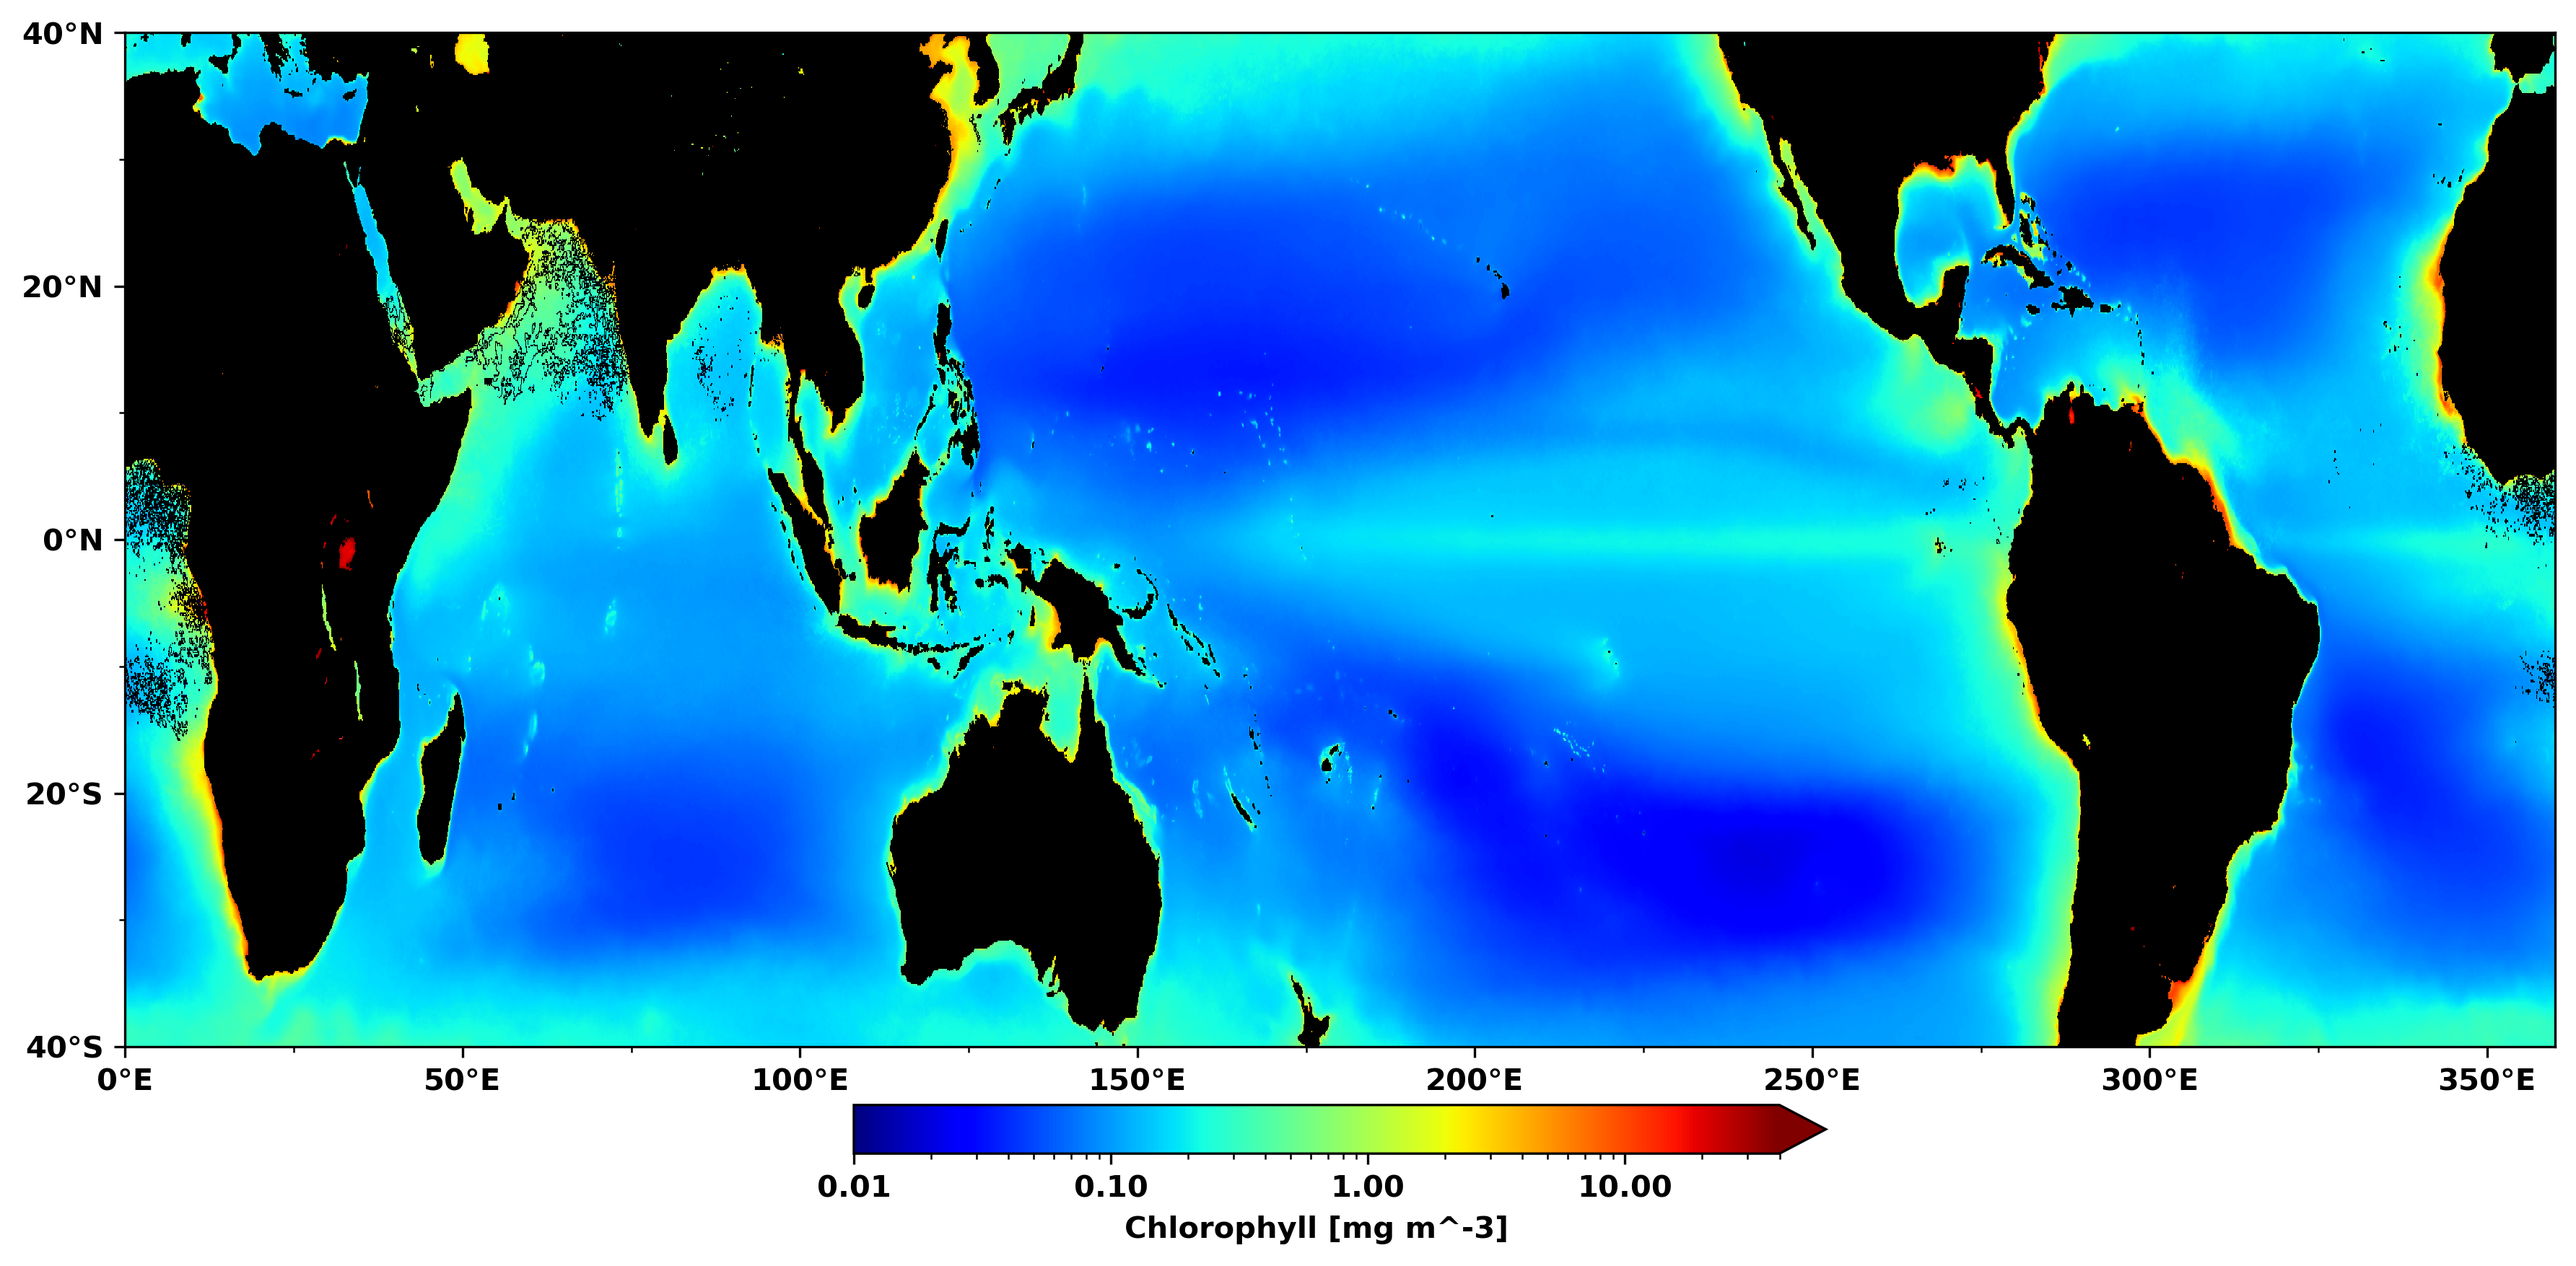
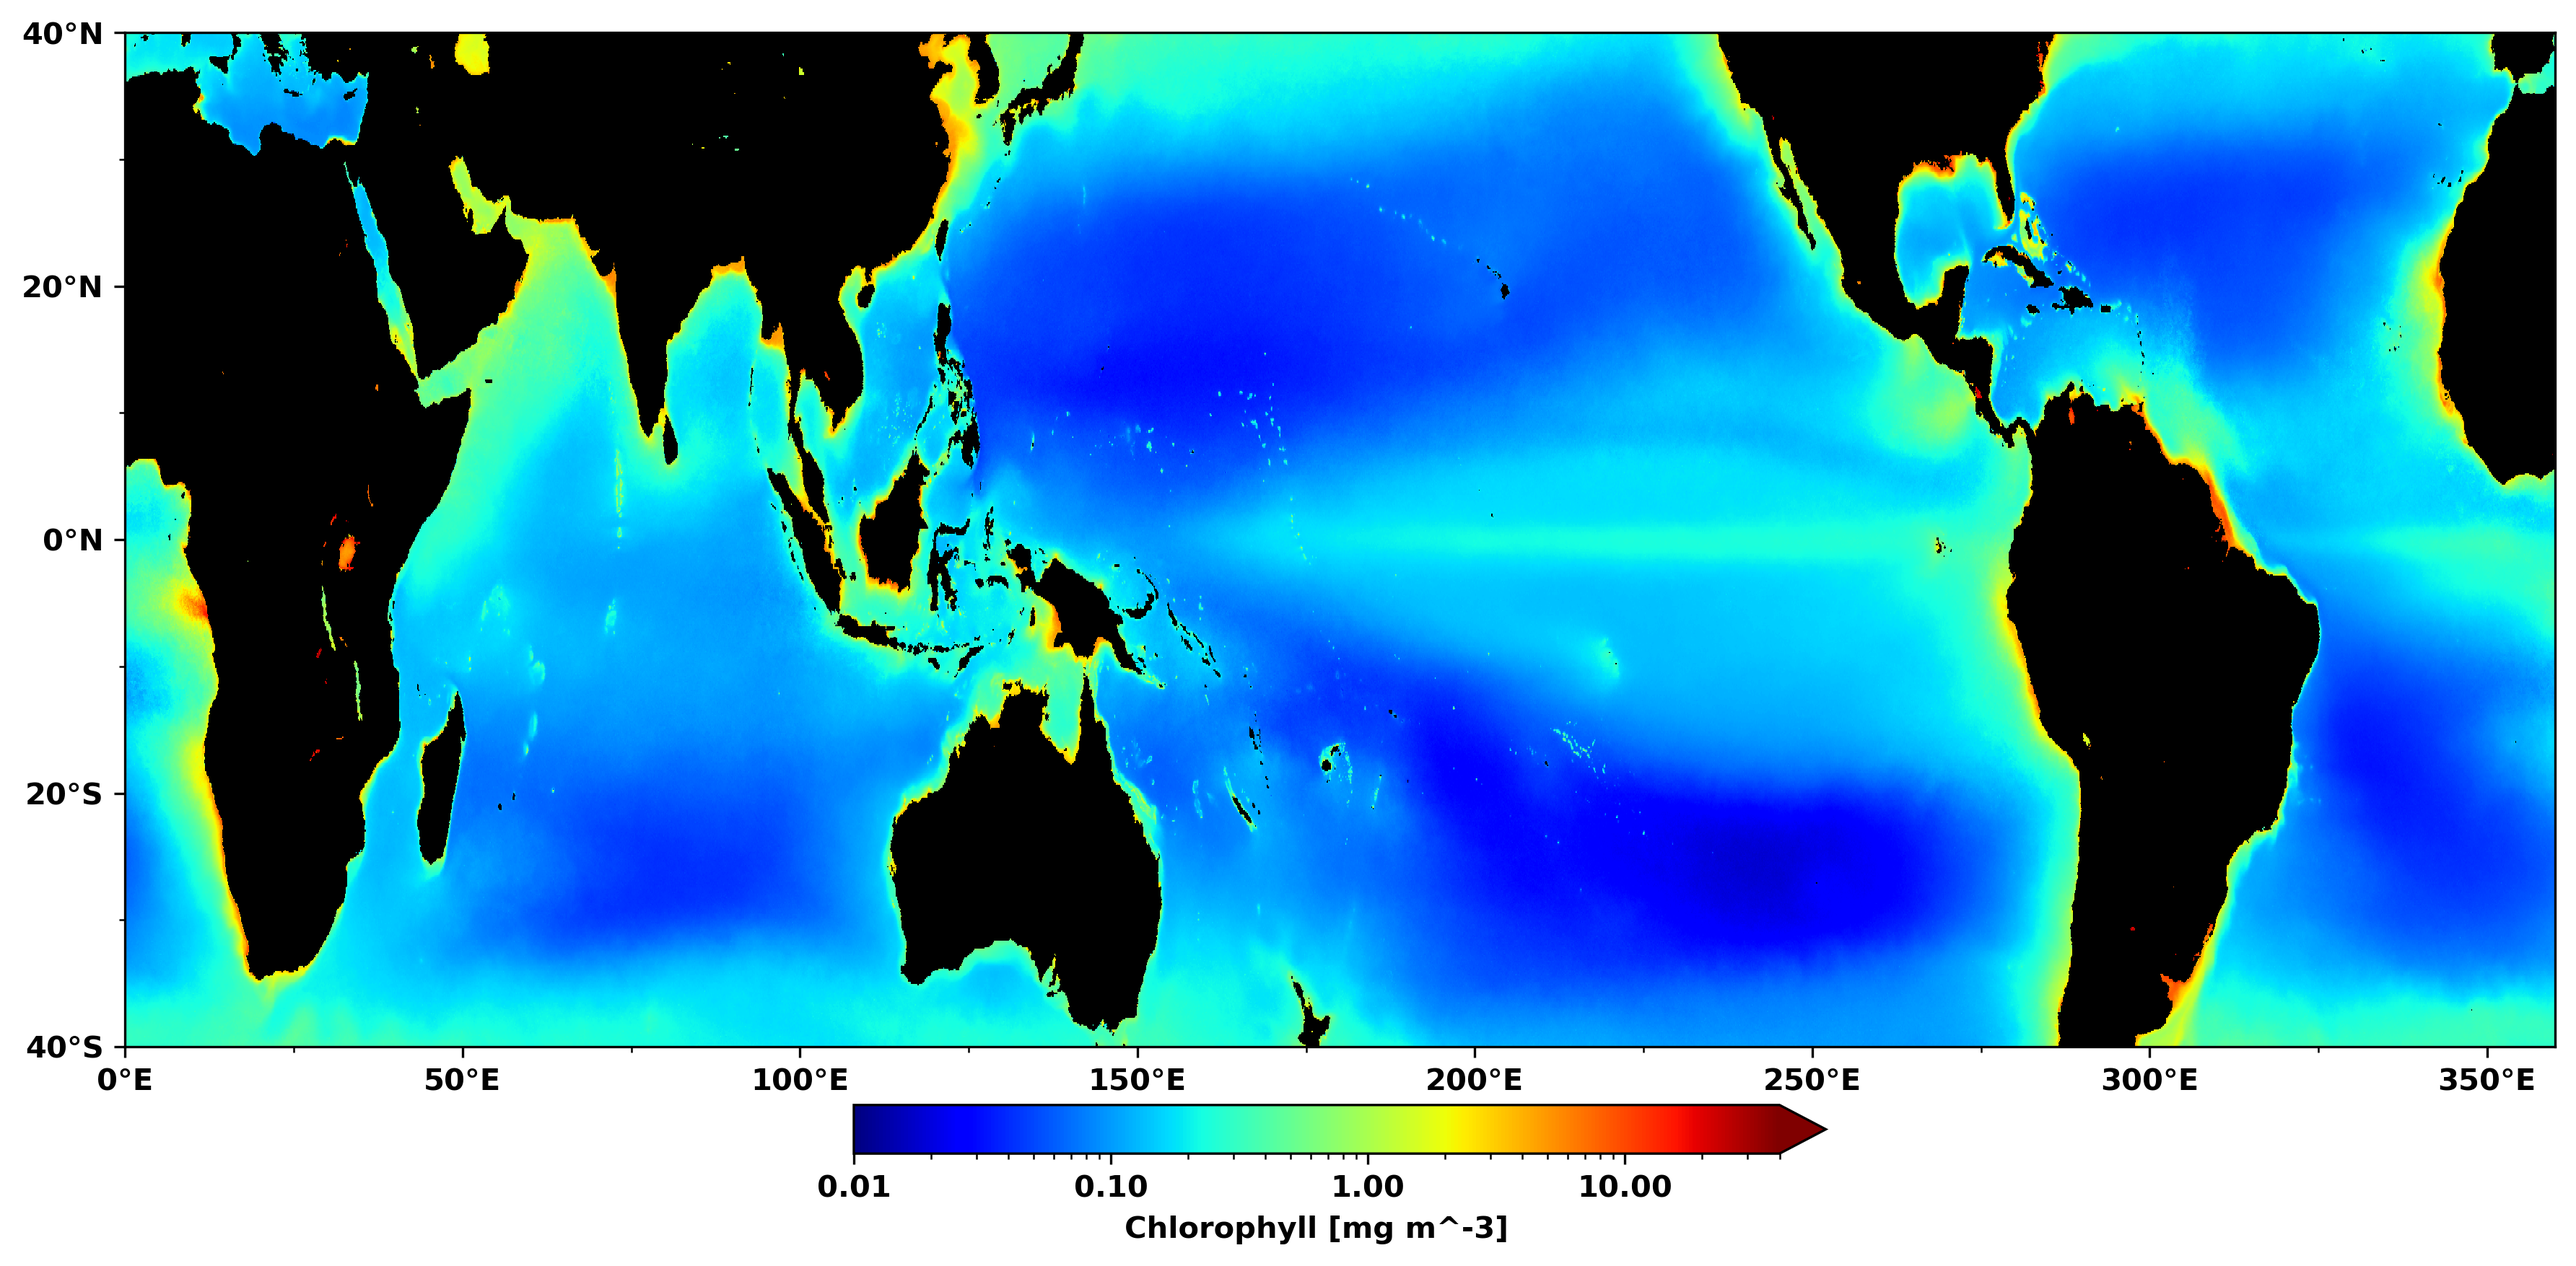
Update chl-a plot and function

diff --git a/scripts/plot_climatologies.py b/scripts/plot_climatologies.py
@@ -30,7 +30,7 @@ logger = mlogger('fe_model_test')
 
 def plot_seawifs_chlorophyll():
     """Plot seaWIFIS chlorophyll climatology map."""
-    ds = xr.open_mfdataset([paths.obs / 'GMIS_SEAWIFS/GMIS_A_CHLA_{:02d}.nc'.format(i)
+    ds = xr.open_mfdataset([paths.obs / 'GMIS_SEAWIFS/GMIS_S_CHLA_{:02d}.nc'.format(i)
                             for i in range(1, 13)], combine='nested', concat_dim='time',
                            decode_cf=0)
     ds = ds.Chl_a
